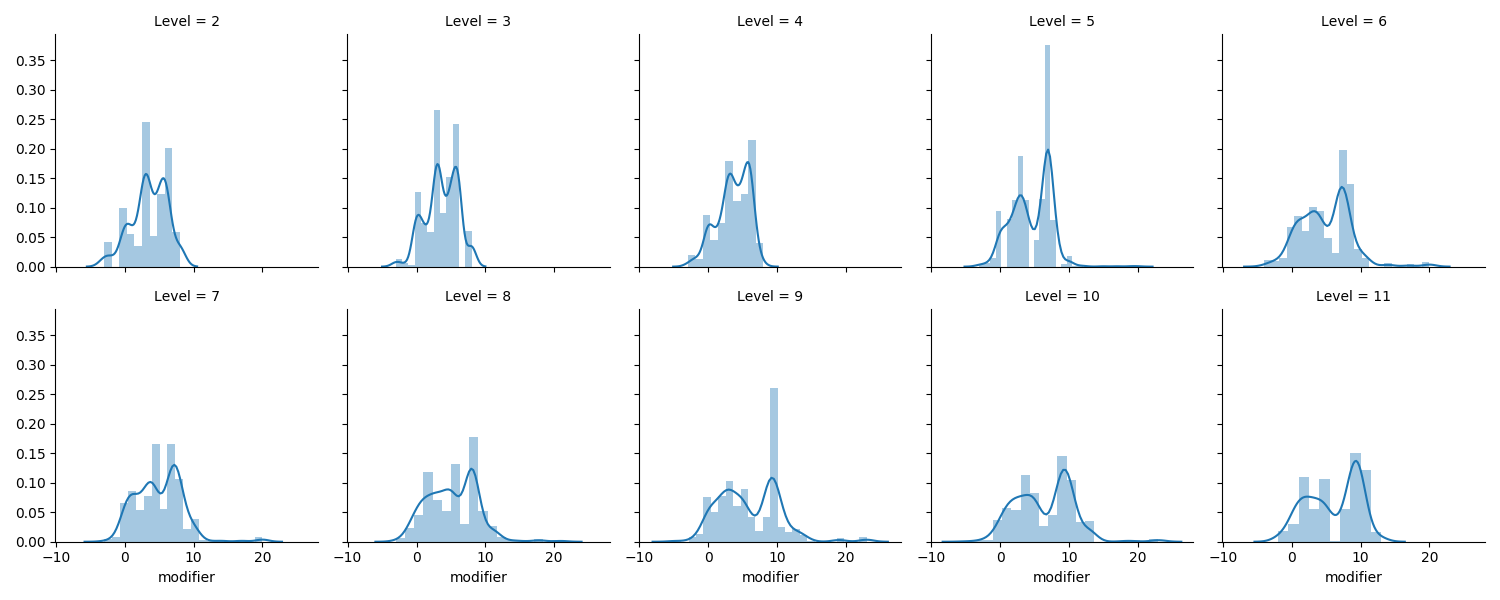
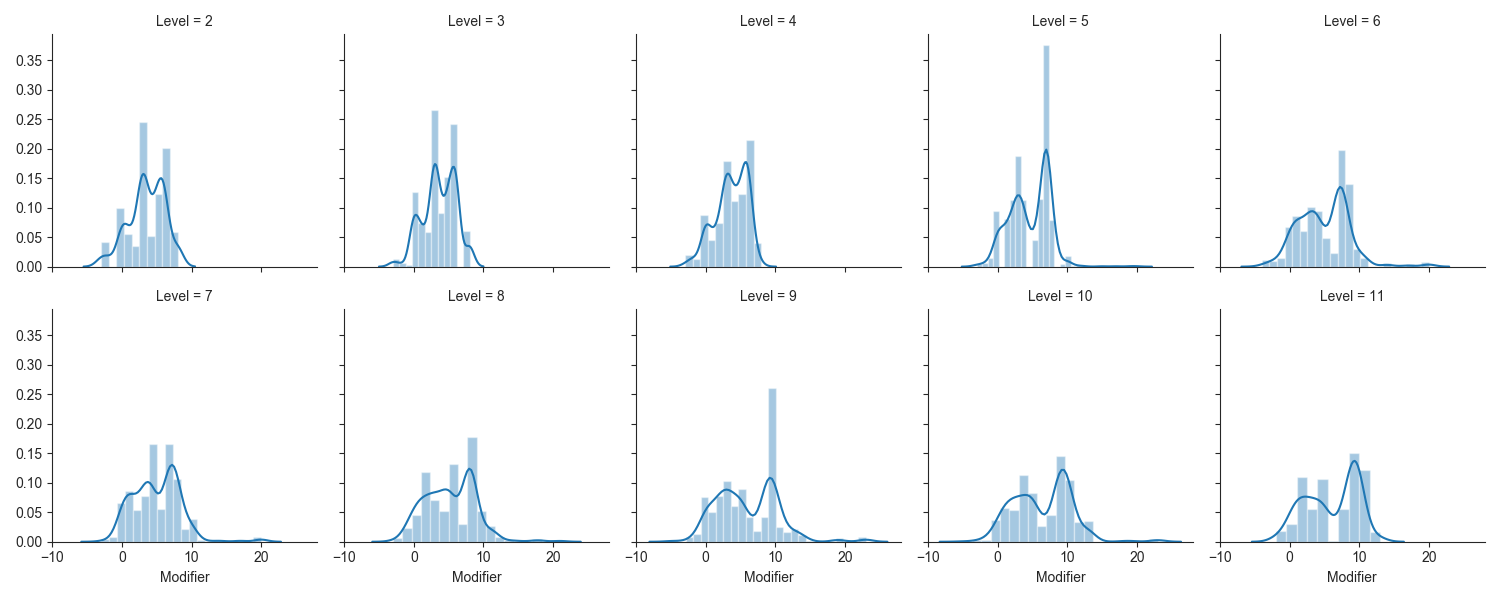
cleaned up plots

diff --git a/src/plot_tests.py b/src/plot_tests.py
@@ -18,29 +18,30 @@ def plot_distplot(df, col, col_wrap, plot_col):
     g = sns.FacetGrid(df, col=col, col_wrap=col_wrap)
     g.map(sns.distplot, plot_col)
 
-
+sns.set_style('ticks')
 # plot_distplot(df, 'Character', 4, 'Total Value')
 # plt.show()
 # sns.boxplot(df['Character'], df['Total Value'])
 # plt.show()
 
-# plot_distplot(df, 'Character', 4, 'modifier')
+# plot_distplot(df, 'Character', 4, 'Modifier')
 # plt.show()
-# sns.boxplot(df['Character'], df['modifier'])
+# sns.boxplot(df['Character'], df['Modifier'])
 # plt.show()
 
 # plot_distplot(df, 'Level', 5, 'Total Value')
 # plt.show()
 # sns.boxplot(df['Level'], df['Total Value'])
 # plt.show()
-#
-# plot_distplot(df, 'Level', 5, 'modifier')
-# plt.show()
-# sns.boxplot(df['Level'], df['modifier'])
+
+
+plot_distplot(df, 'Level', 5, 'Modifier')
+plt.show()
+# sns.boxplot(df['Level'], df['Modifier'])
 # plt.show()
 
 # sns.pairplot(df, hue="Character")
 # plt.show()
 
-sns.distplot(df['modifier'])
-plt.show()
+# sns.distplot(df['Modifier'])
+# plt.show()

diff --git a/src/mann-whitney.py b/src/mann-whitney.py
@@ -5,13 +5,13 @@ import pandas as pd
 
 df = use_this_df()
 
-# h0-the modifiers at level 'sample1' are equally likely to be higher than modifiers at level 'sample2' as the other way around
+# h0-the Modifiers at level 'sample1' are equally likely to be higher than Modifiers at level 'sample2' as the other way around
 
 
 def mann_whitney_test_lvl(level=2):
     samples = []
     for i in range(2, 12):
-        samples.append(df[df['Level'] == i]['modifier'])
+        samples.append(df[df['Level'] == i]['Modifier'])
 
     p_vals = []
     for i in range(0, 10):
@@ -28,7 +28,7 @@ def mann_whitney_test_lvl(level=2):
 def mann_whitney_test_car(char, charlist):
     samples = []
     for i in char_list:
-        samples.append(df[df['Character'] == i]['modifier'])
+        samples.append(df[df['Character'] == i]['Modifier'])
 
     p_vals = []
     for i in range(0, len(char_list)):

diff --git a/src/nat_val.py b/src/nat_val.py
@@ -1,6 +1,7 @@
 from src.helper_functions import *
+import seaborn as sns
 import matplotlib.pyplot as plt
-
+import numpy as np
 
 dirpath = '/home/o/Downloads/Galv/capstone1/Mighty-Rolls/data/All Rolls - Wildemount/'
 
@@ -13,14 +14,15 @@ col = 'Natural Value'
 d20_filter_out_list = ['Other', 'Damage', 'Fragment', 'Percentage', 'Unknown', 'Hit Dice']
 df = remove_rows(df, 'Type of Roll', d20_filter_out_list)
 
+# print_info(df, col)
+
 remove_list = ['Unknown', 'Nat1', '-2', '24', '21', '0']
 df = remove_rows(df, col, remove_list)
 
 # print_info(df, col)
 
 
-
 # plot histogram
-x = df[col].astype('int32')
-plt.hist(x, bins=20, density=True)
+data = df['Natural Value'].astype('int32')
+sns.distplot(data,bins=np.arange(data.max()+2))
 plt.show()

diff --git a/src/boxplot.py b/src/boxplot.py
@@ -5,11 +5,12 @@ import numpy as np
 
 df = use_this_df()
 
+sns.set_style('ticks')
+sns.color_palette('dark')
+ax = sns.boxplot(df['Level'], df['Modifier'])
 
-ax = sns.boxplot(df['Level'], df['modifier'])
-
-means = df.groupby('Level')['modifier'].mean().values
-nobs = df.groupby('Level')['modifier'].agg(['count'])
+means = df.groupby('Level')['Modifier'].mean().values
+nobs = df.groupby('Level')['Modifier'].agg(['count'])
 nobs = ["n: " + str(i) for s in nobs.values for i in s]
 
 pos = range(len(nobs))

diff --git a/src/use_this.py b/src/use_this.py
@@ -34,7 +34,7 @@ def use_this_df():
     df_filtered['Natural Value'] = df_filtered['Natural Value'].astype('int32')
 
     # create modifier column = total value - natural value
-    df_filtered['modifier'] = df_filtered['Total Value'] - df_filtered['Natural Value']
+    df_filtered['Modifier'] = df_filtered['Total Value'] - df_filtered['Natural Value']
 
     # merge characters
     replace_dict = {

diff --git a/src/tot_val.py b/src/tot_val.py
@@ -1,5 +1,6 @@
 from src.helper_functions import *
 import matplotlib.pyplot as plt
+import seaborn as sns
 
 
 dirpath = '/home/o/Downloads/Galv/capstone1/Mighty-Rolls/data/All Rolls - Wildemount/'
@@ -26,6 +27,6 @@ print_info(df, col)
 
 # plot histogram
 x = df[col].astype('int32')
-plt.hist(x, bins=20, density=True)
+sns.distplot(x, bins=20)
 plt.show()
 
